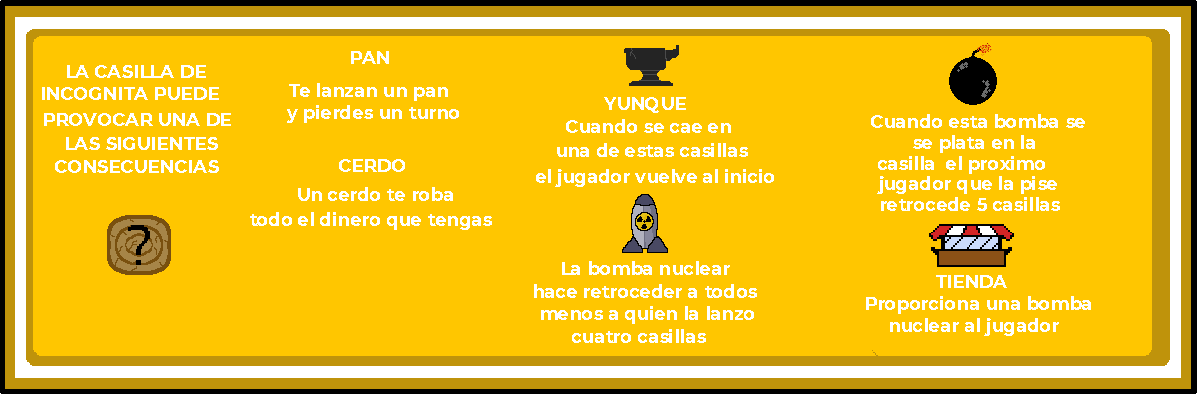
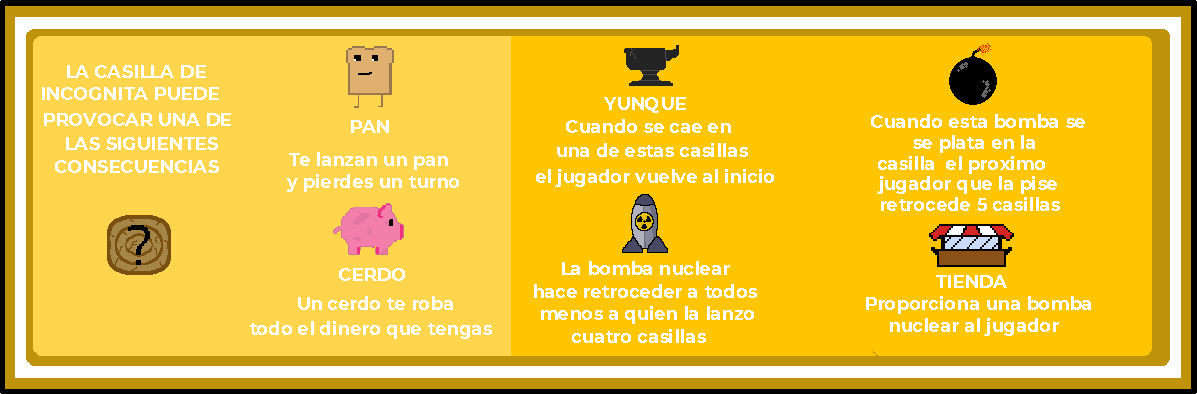
add popup seleccionPersonajes

diff --git a/src/objects/Player.js b/src/objects/Player.js
@@ -62,7 +62,7 @@ export default class Player extends Phaser.Physics.Arcade.Sprite {
     throwDice(){
         this.numberDice = Phaser.Math.Between(1, 6);
         //Move
-        this.changePosition(4);
+        this.changePosition(this.numberDice);
     }
     changePosition(numberPositon, canChangeTurn = true){
 
@@ -72,7 +72,7 @@ export default class Player extends Phaser.Physics.Arcade.Sprite {
         }else{
             this.currentPosition += numberPositon;
         }
-        //Change position
+        //Change position and the postions is evaluated
         if(this.currentPosition > 39) {
             this.currentPosition -= numberPositon;
         }
@@ -254,58 +254,4 @@ export default class Player extends Phaser.Physics.Arcade.Sprite {
         this.waitTurn = true;
         this.changeTurn();
     }
-
-        // mover(numberPositon){
-    //     this.currentPosition = numberPositon < 0 ? this.currentPosition + numberPositon : numberPositon;
-
-    //     let newPositon = this.#map.findObject(
-    //         "objectsBoxes",
-    //         (obj) => obj.name === this.currentPosition.toString()
-    //     );
-    //     // this.setX(newPositon.x);
-    //     // this.setY(newPositon.y);
-    //     console.log(newPositon);
-    //     console.log(this.name + ' se mvio');
-    //     this.#tablero.tweens.add({
-    //         targets: this,
-    //         x: newPositon.x,
-    //         y: newPositon.y,
-    //         ease: "Sine.easeOut",
-    //         duration: 1000,
-    //         repeat: 0,
-    //         yoyo: false,
-    //         onStart: ()=>{
-    //             this.#tablero.physics.pause()
-    //         },
-    //         onComplete: ()=>{
-    //             this.#tablero.physics.resume()
-                
-    //             //Reactivar casilla
-    //             if(this.casillaDesactivada !== undefined){
-    //                 this.casillaDesactivada.enableBody(
-    //                     true,
-    //                     this.casillaDesactivada.x,
-    //                     this.casillaDesactivada.y,
-    //                     true,
-    //                     true
-    //                 );
-    //             };
-
-    //             let inStoreBox = this.#storeMap.some((numberBox)=> numberBox === this.currentPosition.toString());
-    //             let inMoneyBox = this.#moneyMap.some((numberBox)=> numberBox === this.currentPosition.toString());
-
-    //             if(inStoreBox){
-    //                 const nuclearBomb = new NuclearBomb({scene: this.#tablero, x: this.x, y: this.y, texture: 'nuclear-bomb', currentPlayer: this});
-    //                 this.addPowerUp(nuclearBomb);
-    //             }
-    //             if(inMoneyBox){
-    //                 this.addMoney();
-    //             }
-    //         },
-    //     })
-    // }
-    // soloMover(num = 1){
-    //     //this.currentPosition = num;
-    //     this.mover(num)
-    // }
 }

diff --git a/src/scenes/SeleccionPersonajes.js b/src/scenes/SeleccionPersonajes.js
@@ -5,8 +5,9 @@ let stringName = ""
 
 export default class SeleccionPersonajes extends Phaser.Scene
 {
-    #players
-
+    #players;
+    #imageDice;
+    #textLabel;
     canEdit = true;
 
 	constructor() {
@@ -44,6 +45,7 @@ export default class SeleccionPersonajes extends Phaser.Scene
         this.sonidos = data.sonidos;
     }
     create() {
+        
         const {width, height} = this.scale;
         const positionCenter = {
             x: width / 2,
@@ -56,7 +58,7 @@ export default class SeleccionPersonajes extends Phaser.Scene
             this.add.rectangle(x + 20, y + 5, 84, 84, '0x0B4551');
             this.add.image(x + 20, y, 'atlas-patos-statics', texture, { frameWidth: 64, frameHeight: 64 });
             let nameText = this.add.text(x, y + 70, name, {
-                fontFamily: 'Lsans',
+                fontFamily: 'Montserrat',
                 fontSize: 18,
             }).setOrigin(0.5);
             this.createInputs(nameText, player);
@@ -71,6 +73,41 @@ export default class SeleccionPersonajes extends Phaser.Scene
             this.scene.start("Tablero", { players: this.#players, sonidos })
             this.sonidos.sound.musicMain.stop()
         });
+        
+        //Number of dice
+        this.#imageDice = this.add.image(this.scale.width + 150, 128, 'ticket-dice').setScale(1.5, 1)
+        this.#textLabel = this.add.text(this.scale.width + 160, 128, 'Recuerda leer\n el tutorial.', {fontSize: 16, fontStyle: 'bold',  color: '242424', fontFamily: 'Montserrat'} ).setOrigin(0.5);
+        this.#imageDice.visible = true;
+        this.#textLabel.visible = false;
+        const altura = 128;
+        this.tweens.add({
+            targets: this.#imageDice,
+            x: this.scale.width - 150,
+            y: altura,
+            ease: "Sine.easeInOut",
+            duration: 1500,
+            hold: 2000,
+            repeat: 0,
+            yoyo: true,
+        })
+        this.tweens.add({
+            targets: this.#textLabel,
+            x: this.scale.width - 140,
+            y: altura,
+            ease: "Sine.easeInOut",
+            duration: 1500,
+            hold: 2000,
+            repeat: 0,
+            yoyo: true,
+            onStart: () =>{
+                this.#imageDice.visible = true;
+                this.#textLabel.visible = true;
+            },
+            onComplete: () =>{
+                this.#imageDice.visible = false;
+                this.#textLabel.visible = false;
+            }
+        })
     }
 
     createInputs(nameText, playerObj) {

diff --git a/src/scenes/Ganador.js b/src/scenes/Ganador.js
@@ -3,19 +3,27 @@ import Button from '../objects/Button';
 
 export default class Ganador extends Phaser.Scene
 {
+    #winPlayer;
 	constructor()
 	{
 		super('Ganador')
 	}
 
+    init(data){
+        console.log(data)
+        this.#winPlayer = data.name;
+    }
 	preload()
     {
     }
 
     create()
     {
-        this.add.text(500, 500, 'Estas en Ganador')
+        
         this.add.image(this.sys.game.config.width / 2, this.sys.game.config.height / 2, 'atlas-backgrounds', "fondo-ganador");
+        this.add.text(this.sys.game.config.width / 2, this.sys.game.config.height / 2 - 220, this.#winPlayer, {
+            fontFamily: 'Montserrat', fontSize: 20, fontStyle: 'bold', 
+        } ).setOrigin(0.5)
         new Button(this, this.sys.game.config.width / 2 - 5, this.sys.game.config.height - 45, 'botones', "boton-volver", () => {
             this.scene.start("Inicio")
         })

diff --git a/src/objects/PopUpContainer.js b/src/objects/PopUpContainer.js
@@ -18,7 +18,7 @@ export default class PopUpContainer{
         const rightPosition = background.width / 2;
         const topPosition = background.texture.frames.__BASE.height / 2;
 
-        const buttonClose = this.scene.add.text( rightPosition - 50, -topPosition + 50, 'X', {color: 'red', fontStyle: 'bold', fontSize: 30}).setInteractive({ useHandCursor: true }).on('pointerdown', ()=>this.hide());
+        const buttonClose = this.scene.add.text( rightPosition - 50, -topPosition + 20, 'X', {color: 'red', fontStyle: 'bold', fontSize: 30}).setInteractive({ useHandCursor: true }).on('pointerdown', ()=>this.hide());
         
         //If exist the button, then create one in the container.
         (btnClose)? this.#elements = [background, txt, buttonClose] : this.#elements = [background, txt];

diff --git a/src/scenes/Interface.js b/src/scenes/Interface.js
@@ -53,13 +53,19 @@ export default class Interface extends Phaser.Scene{
         this.#buttonDice.visible = true;
         this.#slots.map((slot, index)=>{
             slot.visible = true
+            //Esta logica es sobreescrita en algun lugar
+            const image = slot?.image;
+            if(image) slot.image.visible = true; 
            })
         }, this)
 
        events.on('hide-dice', () => {
            this.#buttonDice.visible = false;
            this.#slots.map((slot, index)=>{
-            slot.visible = false
+            slot.visible = false;
+            //Esta logica es sobreescrita en algun lugar
+            const image = slot?.image;
+            if(image) slot.image.visible = false; 
            })
         }, this)
         

diff --git a/src/objects/Postal.js b/src/objects/Postal.js
@@ -12,7 +12,7 @@ export default class Postal{
         const textureSprite = animsName.slice(0, -6)
         const background = this.scene.add.image(0, 0, texture);
         const entidad = this.scene.add.sprite(0, (background.height / 2) - 90 , textureSprite)
-        const textLabel = this.scene.add.text(0, (background.height / 2) - 100, (text)? text: null, {fontSize: 18, fontStyle: 'bold', color: '242424'}).setOrigin(0.5)
+        const textLabel = this.scene.add.text(0, (background.height / 2) - 100, (text)? text: null, {fontSize: 18, fontStyle: 'bold', color: '242424', fontFamily: 'Montserrat'}).setOrigin(0.5)
 
         
         entidad.anims.play(animsName).setOrigin(0.5, 1).on('animationstart', ()=>{

diff --git a/src/scenes/Tablero.js b/src/scenes/Tablero.js
@@ -142,8 +142,7 @@ export default class Tablero extends Phaser.Scene {
             const nuclearBomb = new NuclearBomb({ scene: this, x: player.x, y: player.y, texture: 'nuclear-bomb', currentPlayer: player });
             // const nuclearBomb = new NuclearBomb({scene: this.#tablero, x: this.x, y: this.y, texture: 'nuclear-bomb', currentPlayer: this});
             player.addPowerUp(bomb);
-            player.addPowerUp(nuclearBomb);
-            console.log(this.players);
+            // player.addPowerUp(nuclearBomb);
             this.players = [...this.players, player];
 
             // this.players = [...this.players, new Player(props)];
